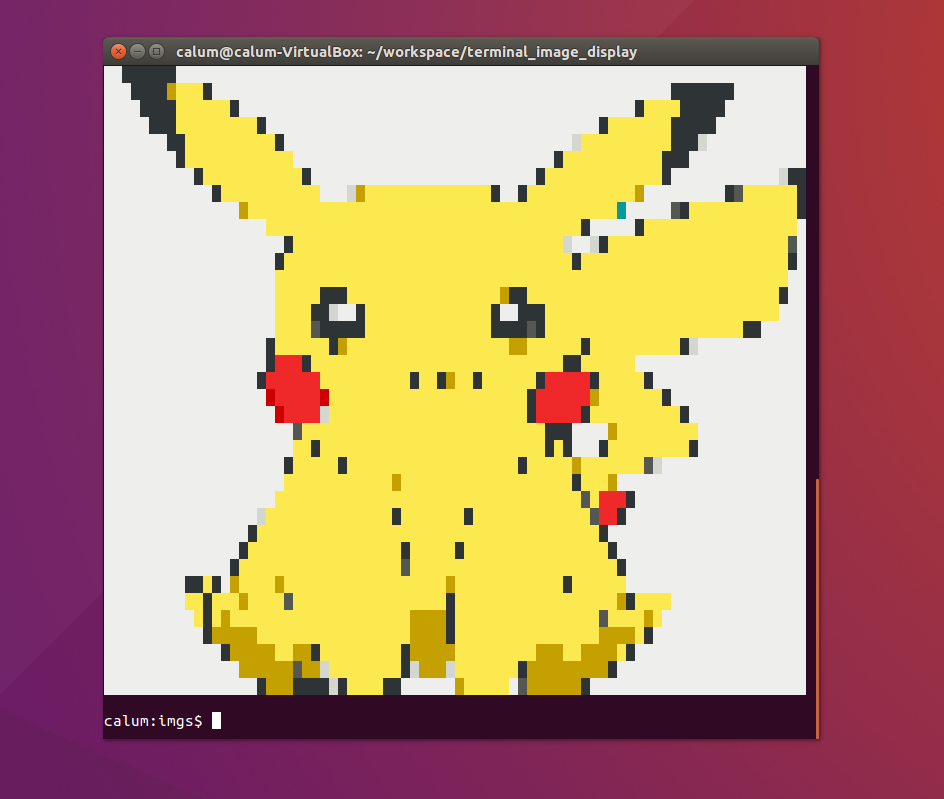
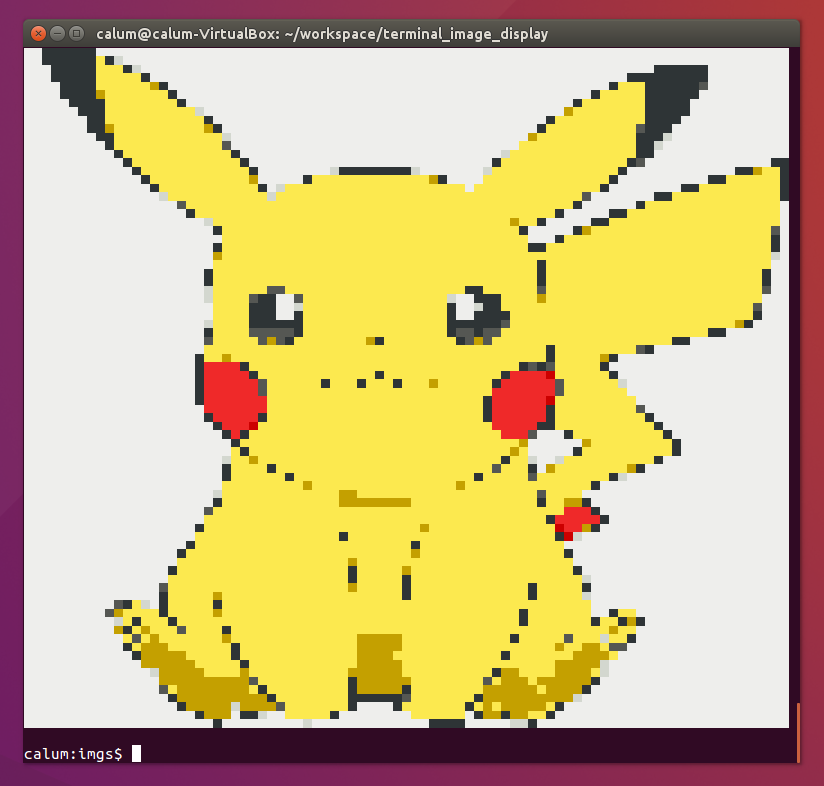
increased resolution

diff --git a/src/lib.rs b/src/lib.rs
@@ -143,13 +143,17 @@ fn render_image(mut image: RgbImage, width: u32, height: u32) {
     let mut screen = Display::new(display_width, display_height);
     screen.clear();
 
-    let img_out = pixelate_image(&mut image, display_width, display_height);
+    let img_out = pixelate_image(&mut image, display_width, display_height * 2);
 
     for (x, y, pixel) in img_out.enumerate_pixels() {
         let rgb = pixel.to_rgb().data;
         let colour = Colour::from_rgb(rgb[0], rgb[1], rgb[2]);
 
-        screen.set_pixel(x as isize, y as isize, ' ', Colour::White, colour);
+        match y % 2 {
+            0 => screen.set_pixel(x as isize, (y/2) as isize, '▄', colour, colour),
+            1 => screen.get_mut_pixel(x as isize, ((y - 1)/2) as isize).set_colour(colour),
+            _ => println!("That shouldn't happen"),
+        }
     }
 
     screen.print();
@@ -165,7 +169,7 @@ pub fn display_image(image_filepath: &str, width: u32, height: u32) {
 pub fn display_gif(gif_filepath: &str, width: u32, height: u32) {
     // get the original gif
     let mut frames = get_gif(gif_filepath);
-    
+
     let mut modified_frames = Vec::new();
 
     // create the new reduced gif by shrinking each frame to fit
